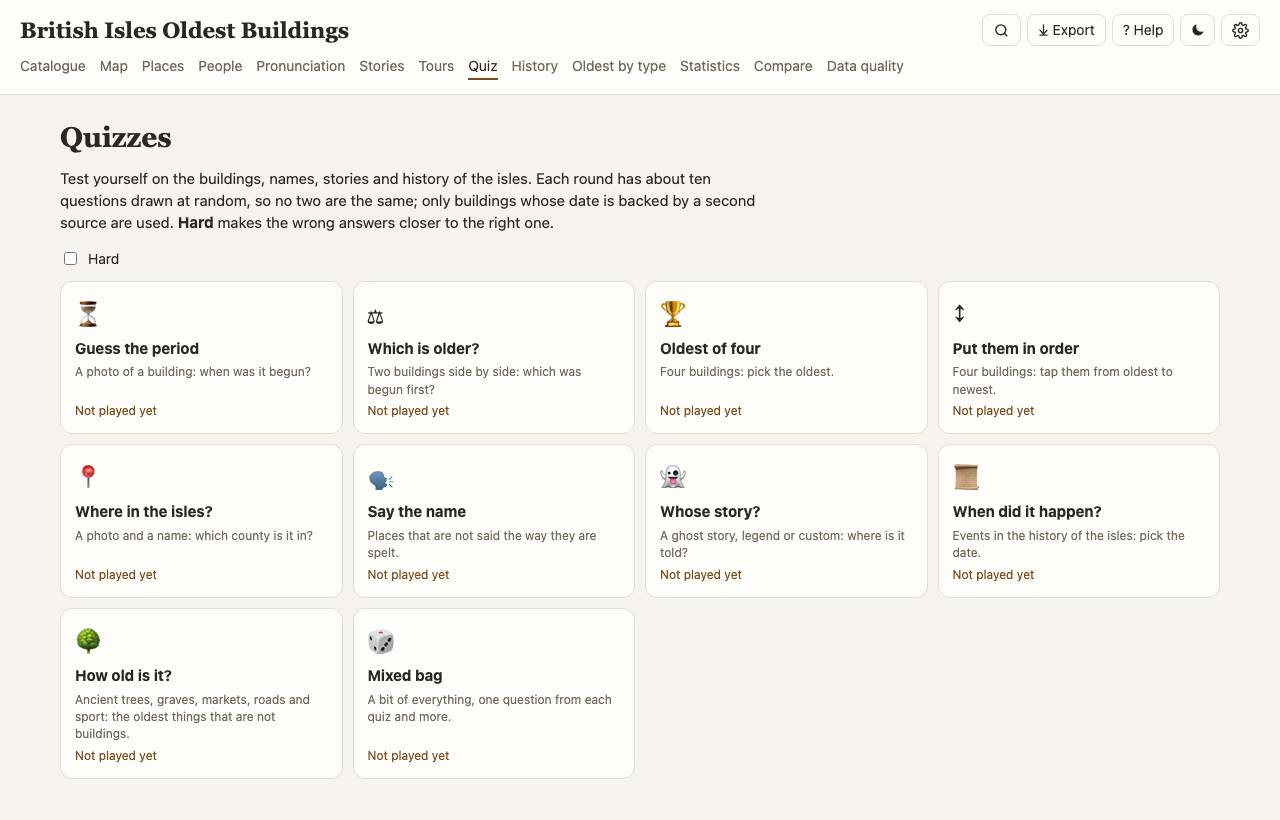
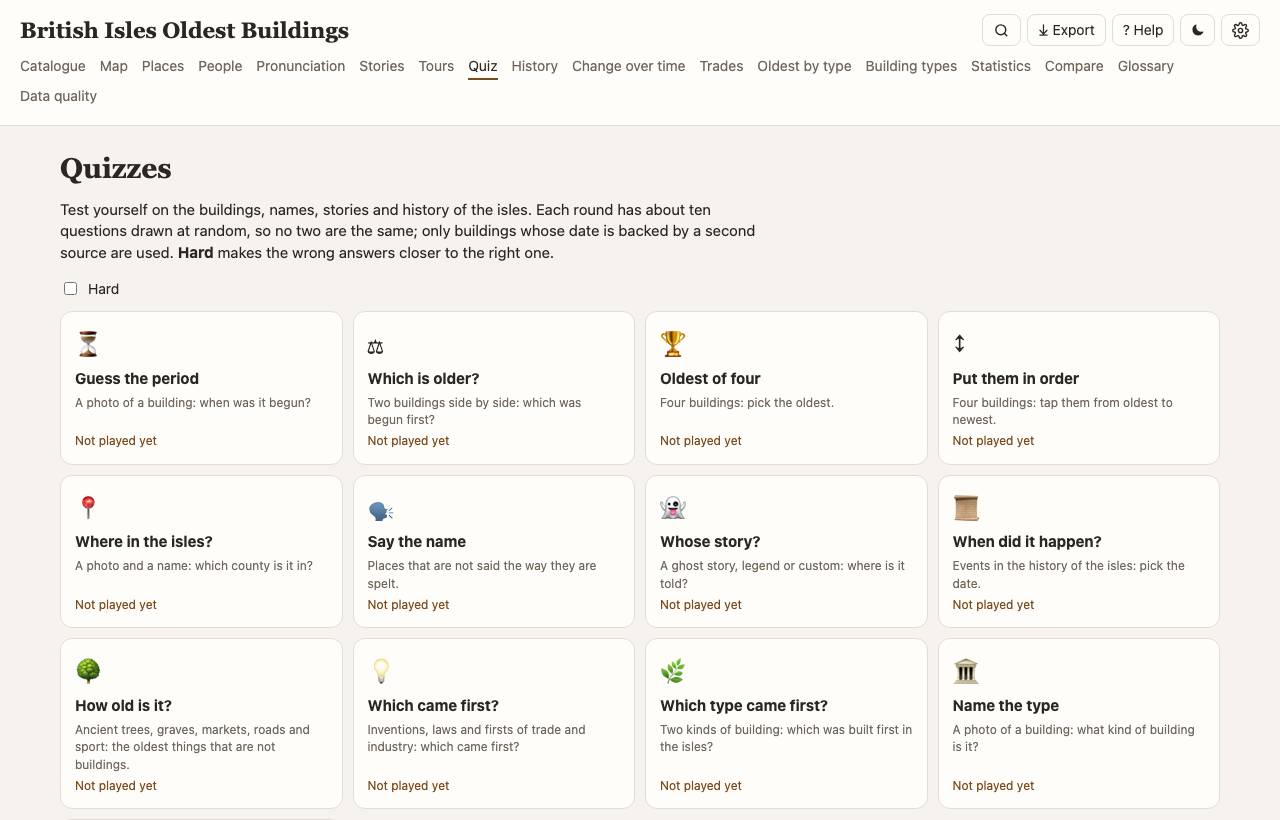
BT7: quizzes "Which type came first?" and "Name the type"; Help section on building types with three figures; hosted copy version 75

diff --git a/app/templates/help.html b/app/templates/help.html
@@ -8,7 +8,7 @@
   <nav class="help-toc" aria-label="Help topics">
     <a href="#start">Getting started</a><a href="#catalogue">Catalogue</a><a href="#detail">A building's page</a>
     <a href="#map">Map</a><a href="#places">Places</a><a href="#people">People</a><a href="#pronunciation">Pronunciation</a><a href="#history">History</a><a href="#trades">Trades</a>
-    <a href="#oldest">Oldest by type</a><a href="#stats">Statistics</a><a href="#stories">Stories</a><a href="#tours">Tours</a><a href="#onthisday">On this day &amp; quiz</a><a href="#offline">Offline</a>
+    <a href="#oldest">Oldest by type</a><a href="#types">Building types</a><a href="#stats">Statistics</a><a href="#stories">Stories</a><a href="#tours">Tours</a><a href="#onthisday">On this day &amp; quiz</a><a href="#offline">Offline</a>
     {% if not static_mode %}<a href="#sharing">Sharing at home</a>{% endif %}<a href="#compare">Compare</a><a href="#data">Data quality</a><a href="#settings">Settings</a>
     <a href="#export">Export &amp; screenshots</a><a href="#shortcuts">Shortcuts</a><a href="#glossary">Glossary</a>
     <a href="#faq">Questions</a><a href="#sources">Sources</a><a href="#about">About</a>
@@ -154,6 +154,30 @@
     {{ shot('oldest_lists.jpg', 'Researched oldest lists: the oldest burials, with the date, place, museum and the claim.') }}
   </section>
 
+  <section id="types">
+    <h2>Building types</h2>
+    <p class="prose">The <b>Building types</b> page is a family tree of about 300 kinds of building, from the roundhouse
+      and the long barrow to the Wealden house, the tower house, the cotton mill and the railway station. The
+      <b>Family tree</b> tab draws each type on a time axis, grouped by domain (houses, defence, religious, farming,
+      industry, transport…) and family: the bar spans its years of use, thicker while it flourished, and a dot marks the
+      earliest surviving example in the catalogue. Branches join a type to the ones it grew from, replaced or revived;
+      each link has its sources, and dashed lines are disputed. Fold the families, pick domains with the chips, or
+      search by name.</p>
+    {{ shot('types_tree.jpg', 'The family tree of building types: periods of use on a time axis, earliest surviving examples, sourced links.') }}
+    <p class="prose">Open a type for its page: the definition from Historic England's thesaurus of monument types, its
+      period, structure and plan, materials, family links with quoted sources (and the views where scholars disagree),
+      what came before and what came next, its earliest surviving example, how it spread across the counties, a map and
+      the dated examples. Dates far earlier than a type's first known date are flagged as too early (usually an older
+      site with a later building). The <b>Materials and techniques</b> tab does the same for stone, timber framing,
+      brick, roofs, glass, iron and concrete, with the sentence that names the material in each record. A building's
+      page says what type it is (“This is a Wealden house: see its family”) and which materials it is known for.</p>
+    {{ shot('type_page.jpg', 'A building type: definition, period, family links with sources, spread across the counties and the earliest examples.') }}
+    <p class="prose"><b>Through time</b> shows how many types of each domain were in use at each date (choose a year to
+      list them, or <b>Show the map at this year</b>) and, as a heatmap, the century each material appears in the
+      catalogue's buildings.</p>
+    {{ shot('types_time.jpg', 'Through time: building types in use per domain, and materials by the century their buildings were begun.') }}
+  </section>
+
   <section id="stats">
     <h2>Statistics</h2>
     {{ shot('stats.jpg', 'Statistics: buildings by nation, period, category and designation; data completeness.') }}
@@ -200,12 +224,14 @@
       deaths of the people in the catalogue on today's date (‹ › for other days). Dates before 1752 are given in the
       calendar used at the time. A building's page has a <b>Timeline</b> of dated events from its article: built,
       rebuilt, besieged, burned, dissolved, restored.</p>
-    <p class="prose">The <b>Quiz</b> page has ten quizzes of about ten questions each, drawn at random every round:
+    <p class="prose">The <b>Quiz</b> page has thirteen quizzes of about ten questions each, drawn at random every round:
       <b>Guess the period</b> from a photo; <b>Which is older?</b> and <b>Oldest of four</b>; <b>Put them in order</b>
       (tap four buildings from oldest to newest); <b>Where in the isles?</b> (the county); <b>Say the name</b> (Belvoir,
       Woodnesborough, Herstmonceux: pick the right respelling); <b>Whose story?</b> (a ghost story or legend with the
       place's name hidden); <b>When did it happen?</b> (events of the History page); <b>How old is it?</b> (ancient
-      trees, graves, markets, roads, sporting clubs and schools from the researched oldest lists); and a <b>Mixed bag</b>.
+      trees, graves, markets, roads, sporting clubs and schools from the researched oldest lists); <b>Which came first?</b> (inventions and laws
+      of trade and industry); <b>Which type came first?</b> (two kinds of building from the family tree);
+      <b>Name the type</b> (a photo: what kind of building is it?); and a <b>Mixed bag</b>.
       <b>Hard</b> makes the wrong answers closer to the right one. Each answer links to the record, the round ends
       with a review, and your best score for each quiz and level is kept in this browser.</p>
     {{ shot('quiz_menu.jpg', 'The quizzes: each round draws new questions; Hard makes the wrong answers closer.') }}

diff --git a/app/static/quiz_kinds.js b/app/static/quiz_kinds.js
@@ -1,5 +1,5 @@
 // The quizzes: each makes a round of questions from photographed buildings (/api/quiz) and the quiz pool
-// (/api/quiz_pool: names to say, stories, history events, the researched oldest lists). Used by quiz.js.
+// (/api/quiz_pool: names to say, stories, history events, the researched oldest lists, building types). Used by quiz.js.
 // A question: { prompt (HTML), image?, choices: [{ value, label, sub?, image? }], answer (value, or a list of
 // values in order for "order" questions), explain (HTML), link? }.
 const QuizKinds = (() => {
@@ -18,6 +18,7 @@ const QuizKinds = (() => {
   const link = (b) => `<a href="${buildingUrl(b.id)}" target="_blank" rel="noopener">${esc(b.name)}</a>`;
   const when = (b) => `${esc(b.date_text || yr(b.year_start))} (${esc(b.period)})`;
   const where = (b) => esc([b.locality, b.county !== b.locality && b.county, b.nation].filter(Boolean).join(", "));
+  const typeLink = (t) => `<a href="${IS_STATIC ? "types.html" : "/types"}?t=${encodeURIComponent(t.id)}" target="_blank" rel="noopener">${esc(t.name)}</a>`;
   const photo = (b) => ({ value: b.id, label: b.name, image: b.image_thumb, sub: b.category });
 
   // `n` items from `pool` that pass `ok` against each other (e.g. different enough dates), or null
@@ -185,11 +186,45 @@ const QuizKinds = (() => {
       return out;
     } };
 
+  K.typefirst = { title: "Which type came first?", icon: "🌿", blurb: "Two kinds of building: which was built first in the isles?",
+    make(d, hard) {
+      const gap = hard ? 60 : 400, pool = ((d.pool.types || {}).kinds || []).filter((t) => t.year != null), out = [];
+      for (let i = 0; i < 60 && out.length < 10; i++) {
+        const pair = spread(pool, 2, (a, b) => Math.abs(a.year - b.year) >= gap && (!hard || a.domain === b.domain || Math.random() < 0.3), 5);
+        if (!pair || out.some((q) => q.ids.includes(pair[0].id) || q.ids.includes(pair[1].id))) continue;
+        const first = pair[0].year < pair[1].year ? pair[0] : pair[1];
+        out.push({ ids: pair.map((t) => t.id), prompt: "<p>Which kind of building was built first in the isles?</p>",
+          choices: pair.map((t) => ({ value: t.id, label: t.name, sub: hard ? "" : t.family })), answer: first.id,
+          explain: pair.map((t) => `${typeLink(t)}: first known ${yr(t.year)}`).join("<br>") +
+            ` <span class="hint">From the family tree of <a href="${IS_STATIC ? "types.html" : "/types"}">building types</a>.</span>` });
+      }
+      return out;
+    } };
+
+  K.nametype = { title: "Name the type", icon: "🏛", blurb: "A photo of a building: what kind of building is it?",
+    make(d, hard) {
+      const t = d.pool.types || {}, kinds = new Map((t.kinds || []).map((k) => [k.id, k]));
+      const photos = (t.photos || []).filter((p) => kinds.has(p.type_id)), out = [], used = new Set();
+      for (const p of shuffle(photos)) {
+        if (out.length === 10) break;
+        if (used.has(p.type_id)) continue;
+        used.add(p.type_id);
+        const k = kinds.get(p.type_id), all = [...kinds.values()].filter((x) => x.id !== k.id);
+        // hard: the same domain but another family (forms of one family can all be right)
+        const same = all.filter((x) => (hard ? x.domain === k.domain && x.family !== k.family : x.domain !== k.domain));
+        const ch = options(k, same.length >= 3 ? same : all, (x) => x.id);
+        out.push({ prompt: `<p>What kind of building is this?</p><p class="hint">${esc(p.nation || "")}</p>`, image: p.image_thumb,
+          choices: ch.map((x) => ({ value: x.id, label: x.name, sub: hard ? "" : x.domain })), answer: k.id,
+          explain: `<a href="${buildingUrl(p.id)}" target="_blank" rel="noopener">${esc(p.name)}</a>: ${typeLink(k)} <span class="hint">(${esc(k.domain)}, ${esc(k.family)})</span>.` });
+      }
+      return out;
+    } };
+
   K.mixed = { title: "Mixed bag", icon: "🎲", blurb: "A bit of everything, one question from each quiz and more.",
     make(d, hard) {
       const kinds = Object.keys(K).filter((k) => k !== "mixed" && !K[k].order);
       return shuffle(kinds.flatMap((k) => K[k].make(d, hard).slice(0, 2))).slice(0, 12);
     } };
 
-  return { KINDS: K, PERIODS, needsPool: (k) => ["say", "story", "history", "ages", "first", "mixed"].includes(k) };
+  return { KINDS: K, PERIODS, needsPool: (k) => ["say", "story", "history", "ages", "first", "typefirst", "nametype", "mixed"].includes(k) };
 })();

diff --git a/app/static/quiz.js b/app/static/quiz.js
@@ -12,7 +12,7 @@
 
   async function load(k) {
     if (data.buildings.length < 60) data.buildings = await api("/api/quiz?n=120").catch(() => []);
-    if (QuizKinds.needsPool(k) && !data.pool) data.pool = await api("/api/quiz_pool").catch(() => ({ pron: [], stories: [], history: [], lists: [], firsts: [] }));
+    if (QuizKinds.needsPool(k) && !data.pool) data.pool = await api("/api/quiz_pool").catch(() => ({ pron: [], stories: [], history: [], lists: [], firsts: [], types: {} }));
   }
 
   function menu() {

diff --git a/app/quiz_api.py b/app/quiz_api.py
@@ -1,5 +1,5 @@
 """Quiz material: /api/quiz (photographed buildings with a well-supported date) and /api/quiz_pool (names
-to pronounce, stories, history events, the researched oldest lists). The questions are made in the browser
+to pronounce, stories, history events, the researched oldest lists, building types). The questions are made in the browser
 (static/quiz_kinds.js); `pool` is also written to data/quiz.json for the hosted copy (static_tours.py).
 """
 import json
@@ -101,6 +101,24 @@ def firsts():
     return out
 
 
+def types(db, per_type=4, data=None):
+    """Building types (BT7): isles types with a first known date, for "Which type came first?", and photographed
+    catalogue records of each type (their main type), for "Name the type"."""
+    from bidb import building_types
+    data = data or building_types.load()
+    kinds = [{"id": t["id"], "name": t["name"], "domain": t["domain"], "family": t["family"],
+              "year": (t.get("period") or {}).get("from")} for t in data["types"] if not t.get("abroad")]
+    known = {t["id"] for t in kinds}
+    photos, n = [], {}
+    for r in db.execute("""SELECT b.id, b.name, b.image_thumb, b.nation, t.type_id FROM type_map t
+            JOIN buildings b ON b.id = t.entity_id WHERE t.source = 'building' AND t.is_primary = 1
+            AND b.image_thumb IS NOT NULL ORDER BY random()"""):
+        if r["type_id"] in known and n.get(r["type_id"], 0) < per_type:
+            n[r["type_id"]] = n.get(r["type_id"], 0) + 1
+            photos.append(dict(r))
+    return {"kinds": kinds, "photos": photos}
+
+
 def pool(db):
     return {"pron": pronunciations(db), "stories": stories(db), "history": history(), "lists": oldest_lists(),
-            "firsts": firsts()}
+            "firsts": firsts(), "types": types(db)}

diff --git a/tests/test_quiz_types.py b/tests/test_quiz_types.py
@@ -1,0 +1,33 @@
+"""Building types in the quiz pool (app.quiz_api.types, BT7): isles types with a first date, photographed records
+by their main type."""
+import sqlite3
+import unittest
+
+from app.quiz_api import types
+from tests.test_type_pages import DATA, conn
+
+
+class QuizTypesTest(unittest.TestCase):
+    def setUp(self):
+        self.c = conn()
+        self.c.row_factory = sqlite3.Row
+        self.c.executemany("UPDATE buildings SET image_thumb = ? WHERE id = ?",
+                           [("t1.jpg", "b1"), ("t2.jpg", "b2"), ("t5.jpg", "b5"), ("t6.jpg", "b6")])
+
+    def test_kinds_leave_out_types_abroad(self):
+        kinds = types(self.c, data=DATA)["kinds"]
+        self.assertEqual([k["id"] for k in kinds], ["castle", "town-hall", "keep"])
+        self.assertEqual(kinds[0]["year"], 1050)
+
+    def test_photos_by_main_type_and_capped(self):
+        photos = types(self.c, per_type=2, data=DATA)["photos"]
+        by = {}
+        for p in photos:
+            by.setdefault(p["type_id"], []).append(p["id"])
+        self.assertEqual(len(by["castle"]), 2)                  # b1, b2, b5 are castles: two kept
+        self.assertEqual(by["town-hall"], ["b6"])               # b5 is a town hall only as a secondary type
+        self.assertTrue(all(p["image_thumb"] for p in photos))
+
+
+if __name__ == "__main__":
+    unittest.main()

diff --git a/tests/ui_check.py b/tests/ui_check.py
@@ -80,6 +80,9 @@ PAGES = {
     "quiz_story": ("/quiz?q=story", r"▇▇▇"),
     "quiz_order": ("/quiz?q=order", r"quiz-rank"),
     "quiz_first": ("/quiz?q=first", r"(?s)Which came first\?.*Innovation|Law or institution"),
+    "quiz_typefirst": ("/quiz?q=typefirst", r"(?s)Which kind of building was built first"),
+    "quiz_nametype": ("/quiz?q=nametype", r"(?s)quiz-photo.*What kind of building is this\?"),
+    "help_types": ("/help", r"id=\"types\""),
     "places_nature": ("/places?kind_group=Nature+%26+deep+time", r"data-place="),
     "settings_share": ("/settings", r"Only this computer can open the app"),
     "building_domesday": ("/building/Q17529018", r"recorded in Domesday Book with 2 churches and a priest"),

diff --git a/INTERFACE.md b/INTERFACE.md
@@ -197,7 +197,7 @@ OSM objects with wikidata=* (opening hours, fee, operator) ─> bidb/visiting.py
 | `tours_api.py` | `/api/tours` (mode, theme, nation, q), `/api/tour/<id>`, `/api/route` (builder routes via OSRM), `/api/tour_candidates` (scored stops near a point) |
 | `trades_api.py` | `/api/trades` (list), `/api/trade/<id>` (one story), `/api/trade_here/<id>` (detail views, C9) from bidb.trade_stories |
 | `types_api.py` | `/api/types` (every isles building type: counts, period, earliest surviving example), `/api/type/<id>` (one type: curated entry, links, dated examples, by nation and century, map points), `/api/types_of/<id>` (the types of one record or place) from bidb.type_stats; for the page /types (bidb.type_pages): `/api/type_tree` (kept until the database changes), `/api/type_page/<id>`, `/api/materials`, `/api/material/<id>`, `/api/types_here/<id>`; `/api/material_centuries` (BT5, bidb.type_charts) |
-| `quiz_api.py` | `/api/quiz` (photographed buildings with a well-supported date), `/api/quiz_pool` (names said unlike their spelling, stories naming their place, history events, researched oldest-list entries, innovations and trade laws for "Which came first?" (`firsts`); `pool` also written to `data/quiz.json` for the hosted copy) |
+| `quiz_api.py` | `/api/quiz` (photographed buildings with a well-supported date), `/api/quiz_pool` (names said unlike their spelling, stories naming their place, history events, researched oldest-list entries, innovations and trade laws for "Which came first?" (`firsts`); building types with their first dates and photographed records by main type (`types`, BT7); `pool` also written to `data/quiz.json` for the hosted copy) |
 | `pron_api.py` | `/api/pron/<id>` (record + town), `/api/pronunciations` (guide), `/api/pronunciations/varieties`, `/api/pronunciations/coverage` |
 | `pages.py` | HTML routes: `/`, `/building/<id>`, `/map`, `/places`, `/people`, `/history`, `/change`, `/trades`, `/oldest`, `/stats`, `/compare`, `/glossary`, `/types`, `/data`, `/pronunciation`, `/stories`, `/tours` (`/trip` → tours), `/quiz`, `/sw.js`, `/setup` (first run), `/settings`, `/help` (+ `/help/img/<name>` from `docs/img`); `STATIC_MODE` flag |
 | `static_export.py` | `python -m app.static_export` → `dist/` static site (under 256 MiB: 850 embedded thumbnails, oldest records first; data split into ≤9 MB JSON shards; thumbnails, detail-only fields and outlines in small files loaded on demand: `_split_lazy`, row keys `t`/`d`) |
@@ -226,7 +226,7 @@ OSM objects with wikidata=* (opening hours, fee, operator) ─> bidb/visiting.py
 | `static/evidence.js` | `Evidence`: fills `[data-evidence]` (detail views) with researched claims, sources, quotes and check results; `Evidence.table` on the Data quality page |
 | `static/glossary.js` | Glossary page: search, group chips, A-Z, "see also" links to `#term-<slug>`, Find in the catalogue for building types and archaeology; `?q=`, `?group=` |
 | `static/on_this_day.js` | "On this day" on the History page (‹ › days) |
-| `static/quiz_kinds.js` | `QuizKinds`: the eleven quizzes (period, older, oldest of four, order, county, say the name, whose story, when did it happen, how old is it, which came first (innovations and trade laws, C9), mixed), easy/hard question makers |
+| `static/quiz_kinds.js` | `QuizKinds`: the thirteen quizzes (period, older, oldest of four, order, county, say the name, whose story, when did it happen, how old is it, which came first (innovations and trade laws, C9), which type came first and name the type (BT7, from the family tree and photographed records by their main type), mixed), easy/hard question makers |
 | `static/quiz.js` | Quiz page: menu, rounds, ordering questions, best score per quiz and level (localStorage), end-of-round review; `?q=<quiz>` |
 | `static/sw.js`, `static/manifest.webmanifest`, `static/icons/` | Installable app: service worker (served at `/sw.js`; pages, static files and opened records kept for offline use), manifest, icon |
 | `static/vendor/protomaps-leaflet.js` | Draws saved street tiles (BSD-3, from cycle_routes) |
@@ -280,7 +280,7 @@ OSM objects with wikidata=* (opening hours, fee, operator) ─> bidb/visiting.py
 - `ROADMAP.md` (planned and open work; finished sections in `ROADMAP_DONE.md`), `SESSION_LOG.md` (entries before
   2026-10-21 in `SESSION_LOG_2026-10-19.md`)
 - `docs/make_figures.mjs` — regenerates `docs/img/*.jpg` (README and Help figures) in Chrome via `tests/cdp.mjs` (`node docs/make_figures.mjs [names]`, app running)
-- `tests/` — `python -m unittest discover tests` (settings/data location, bundle release, FISH thesaurus reader and building-type links, materials and techniques, records and places linked to materials (`test_material_map`), records mapped to building types, per-type counts and earliest examples, the data of the page /types (`test_type_pages`), charts of types through time (`test_type_charts`), glossary, `{{coord}}` reading, trade sources, livery companies, firms through time, companies from the registers, patents per year, trade people and OSM halls, overseas trade, trade values from the Statistical Abstract, main exports by value, main imports by value and quantity, the main goods since 2000 (HMRC), the main goods 1938-1952 by group, the main goods 1953-1974 by SITC division and class, the main goods 1962-2024 as shares (Growth Lab), the main goods 1846-2024 joined with breaks, occupations by sector (England and Wales 1861-1911, Scotland and Ireland from Booth, Scotland 1891-1911 from the census reports, Ireland 1891-1911 line by line), place stage kinds, place stage kinds (`test_place_stages`), date mining, date checks, pronunciation parsing, hosted-export split, the hosted /types data (`test_static_types`), tile encoding, stories, tours, periods, calendars, timelines, trails, street tiles, jobs, progress, refresh, setup); `node tests/ui_prefs_test.js`; browser checks of every page: `python -m tests.ui_check [--base URL] [--only names]`; full GUI review (every page, map, layer, historic map, places layer, pop-ups, interactions; local and hosted): `node tests/ui_review.mjs --base URL [--static] [--only groups]` (driver `tests/cdp.mjs`, report and screenshots in `runs/ui_review*/`)
+- `tests/` — `python -m unittest discover tests` (settings/data location, bundle release, FISH thesaurus reader and building-type links, materials and techniques, records and places linked to materials (`test_material_map`), records mapped to building types, per-type counts and earliest examples, the data of the page /types (`test_type_pages`), charts of types through time (`test_type_charts`), glossary, building types in the quiz pool (`test_quiz_types`), `{{coord}}` reading, trade sources, livery companies, firms through time, companies from the registers, patents per year, trade people and OSM halls, overseas trade, trade values from the Statistical Abstract, main exports by value, main imports by value and quantity, the main goods since 2000 (HMRC), the main goods 1938-1952 by group, the main goods 1953-1974 by SITC division and class, the main goods 1962-2024 as shares (Growth Lab), the main goods 1846-2024 joined with breaks, occupations by sector (England and Wales 1861-1911, Scotland and Ireland from Booth, Scotland 1891-1911 from the census reports, Ireland 1891-1911 line by line), place stage kinds, place stage kinds (`test_place_stages`), date mining, date checks, pronunciation parsing, hosted-export split, the hosted /types data (`test_static_types`), tile encoding, stories, tours, periods, calendars, timelines, trails, street tiles, jobs, progress, refresh, setup); `node tests/ui_prefs_test.js`; browser checks of every page: `python -m tests.ui_check [--base URL] [--only names]`; full GUI review (every page, map, layer, historic map, places layer, pop-ups, interactions; local and hosted): `node tests/ui_review.mjs --base URL [--static] [--only groups]` (driver `tests/cdp.mjs`, report and screenshots in `runs/ui_review*/`)
 - `data/curated/story_rejects.json` — reviewed false story matches (dropped on rebuild)
 - `data/curated/evidence.json` — researched claims with sources and quotes (research track); `data/evidence_check.json` — last quote check
 - `data/curated/date_confirmations.json` — catalogue dates kept after reviewing a conflict (reason each)

diff --git a/ROADMAP.md b/ROADMAP.md
@@ -10,8 +10,8 @@ are moved to [`ROADMAP_DONE.md`](ROADMAP_DONE.md).
   isles types with examples, 215 with an earliest surviving example (register periods no longer count).
 - Catalogue 22,508 records; 173,789 places in 22 groups; 12,193 people; 517 floor plans; "Change over time": 256
   series, 48 events, 23 map layers, 19 notes, 108 sources; 894 researched claims (with the 24 of the tea list). Release db-2026-10-24 (102 MB).
-- Hosted copy https://claude.ai/artifact/4H8rfcGGxSJki91SrNFTPv (private), version 74 (2026-10-26, with /types,
-  BT4b): 253.0 of 256 MiB, 487 of 511 files. Republish changed files only: checksum `dist/` before and after
+- Hosted copy https://claude.ai/artifact/4H8rfcGGxSJki91SrNFTPv (private), version 75 (2026-10-26, BT7 quizzes and Help; /types since 74,
+  BT4b): 253.5 of 256 MiB, 490 of 511 files. Republish changed files only: checksum `dist/` before and after
   `python -m app.static_export`, batches under 64 MB, removals (null) first; list the files first (the service refuses
   to replace files this session has not read or listed).
 - Figures: `node docs/make_figures.mjs` (app running); the setup figure needs a copy with no data
@@ -751,7 +751,11 @@ the descent of a type is disputed, both views are given and the link is drawn as
       for the hosted copy; more types added in building-gen itself (its repo), not copied here. Where a generated
       example would be guesswork, use labelled diagrams (plan, section, elevation drawn as SVG) and Commons
       photographs and floor plans of real examples instead.
-- [ ] BT7 Hosted copy, Help page, INTERFACE, figures; quiz questions ("which type came first?", "name the type").
+- [x] BT7 (2026-10-26) Hosted copy (BT4b), Help page section "Building types" with three figures (`types_tree`,
+      `type_page`, `types_time`), INTERFACE; two quizzes: "Which type came first?" (two isles types by first known
+      date, 400 years apart or 60 on Hard, Hard mostly within one domain) and "Name the type" (a photographed
+      catalogue record, up to 4 per type over 187 types, by its main type; wrong answers from other domains, on Hard
+      the same domain but another family, since forms of one family can all be right).
 
 ## Data quality and references
 - [x] `bidb.bundle release` failed on this connection (found 2026-10-23: `gh release create` ended twice in HTTP 408,

diff --git a/SESSION_LOG.md b/SESSION_LOG.md
@@ -1717,3 +1717,19 @@ Entries before 2026-10-21 are in [`SESSION_LOG_2026-10-19.md`](SESSION_LOG_2026-
   since version 71): 253.0 MiB, 487 files.
 - Tests 372 OK (5 new `test_static_types`; `test_static_split` follows the hash's move to `STATIC_ID_HASH`).
 - Next: BT7 (Help page section and figures for /types, quiz questions "which type came first?", "name the type").
+
+## 2026-10-26 — BT7: building types in the quiz and the Help page
+- Two new quizzes (13 in all): "Which type came first?" (two isles types by first known date from the family tree,
+  400 years apart, 60 on Hard, Hard mostly within one domain) and "Name the type" (a photographed catalogue record
+  by its main type, up to 4 records for each of 187 types; wrong answers from other domains, on Hard the same domain
+  but another family, as the forms of one family, e.g. castle and concentric castle, can all be right). The pool gets
+  `types` (`quiz_api.types`: 285 kinds, 604 photos, 176 KB in data/quiz.json); new `tests/test_quiz_types.py`.
+- Help: new section "Building types" (family tree, type and material pages, Through time) with three new figures
+  (`types_tree`, `type_page`, `types_time`, in `docs/make_figures.mjs`); the quiz paragraph lists all thirteen (it had
+  left out "Which came first?"); quiz_menu figure regenerated.
+- ui_check: quiz_typefirst, quiz_nametype, help_types added and passing (against a fresh server on port 5072; the
+  GUI on 5050 runs older code until restarted).
+- Hosted copy version 75 (9 changed files: quiz data and scripts, Help page and four figures): 490 files. Checked
+  `dist/` served locally in headless Chrome: both new quizzes draw questions, no errors.
+- Tests 374 OK. Next: BT6 (generated examples) or BT3c2 (material regions over the geology layer), or the open
+  emergent items (generic stones, tramways and funiculars).
